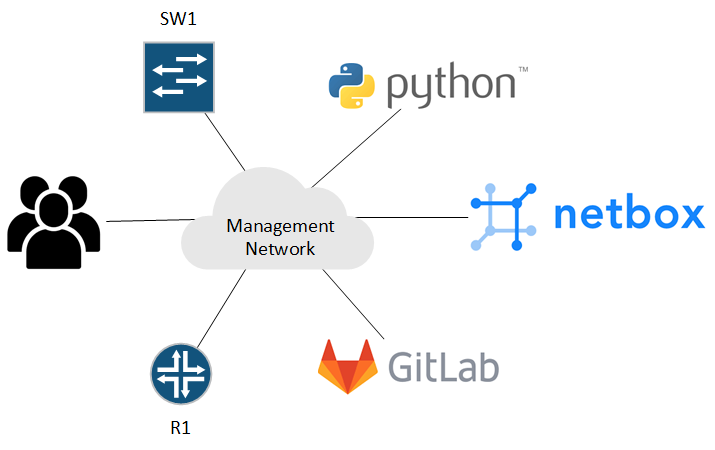
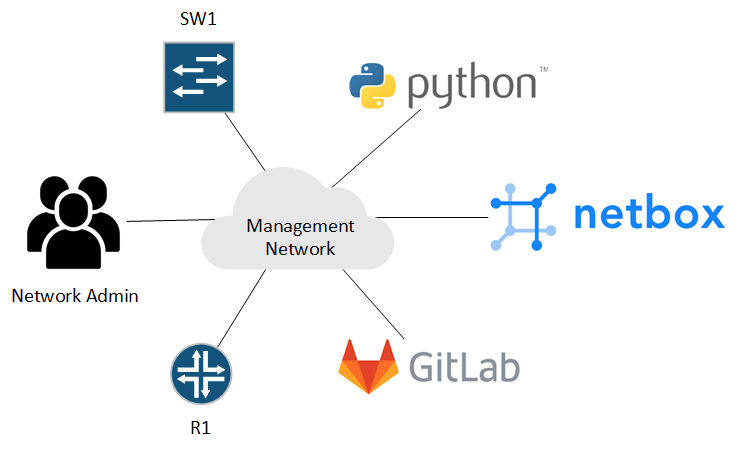
Updated logic flow image and alignment

diff --git a/docs/logicflow.md b/docs/logicflow.md
@@ -2,7 +2,10 @@
 
 Sample logic flow for simulated environment with R1 and SW1 as managed network devices.
 
-![Sample Diagram](https://raw.githubusercontent.com/kagarcia1618/Network-Config-Tracker/main/docs/Logic_flow_diagram.png){ align=left }
+<figure markdown>
+  ![Sample Diagram](https://raw.githubusercontent.com/kagarcia1618/Network-Config-Tracker/main/docs/Logic_flow_diagram.png/){ width="450" }
+  <figcaption>Sample Diagram</figcaption>
+</figure>
 
 ``` mermaid
 sequenceDiagram
